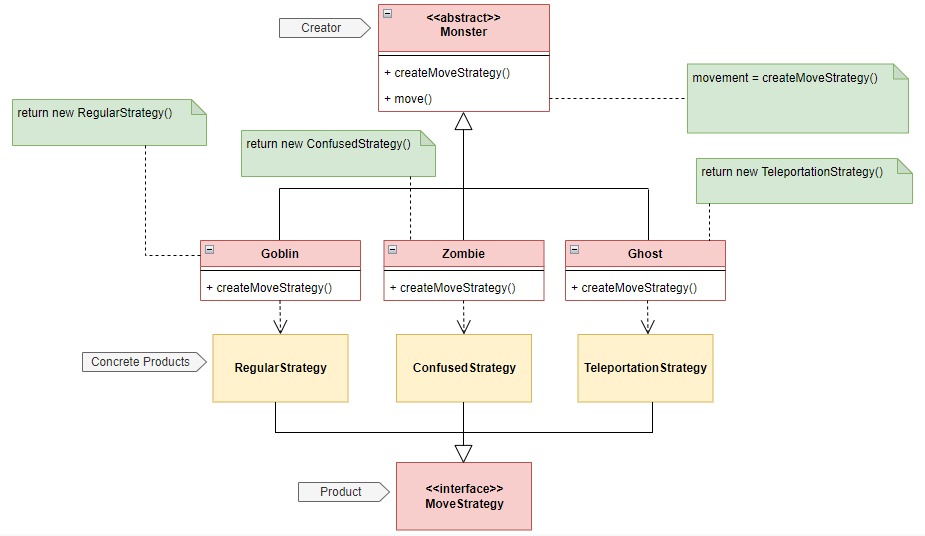
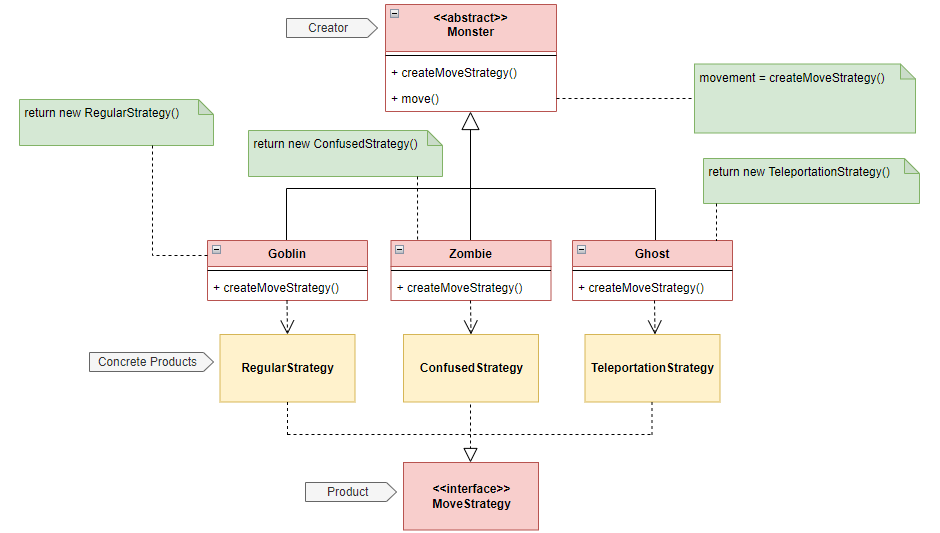
UML diagram added to docs

diff --git a/src/main/java/Key.java b/src/main/java/Key.java
@@ -4,7 +4,7 @@ import com.googlecode.lanterna.TextColor;
 import com.googlecode.lanterna.graphics.TextGraphics;
 
 /**
- * Key class. When catched, allows hero to unlock door and end level.
+ * Key class. When caught, allows hero to unlock door and end level.
  */
 public class Key extends Element {
     /**
